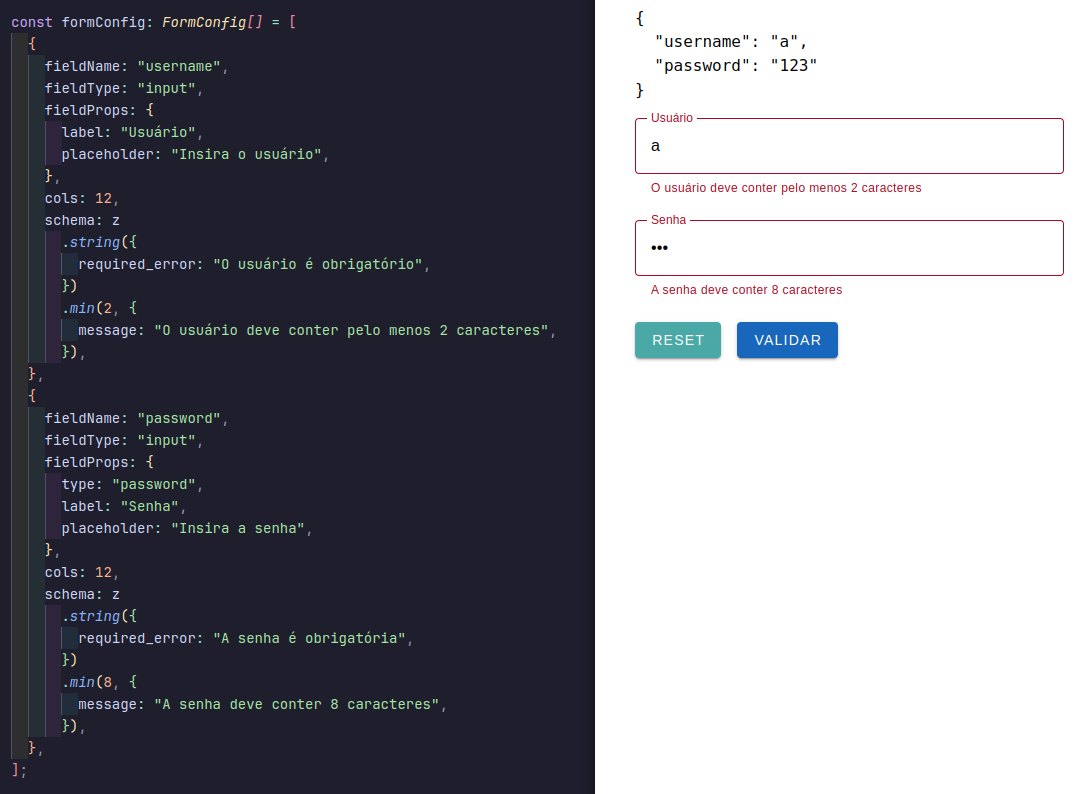
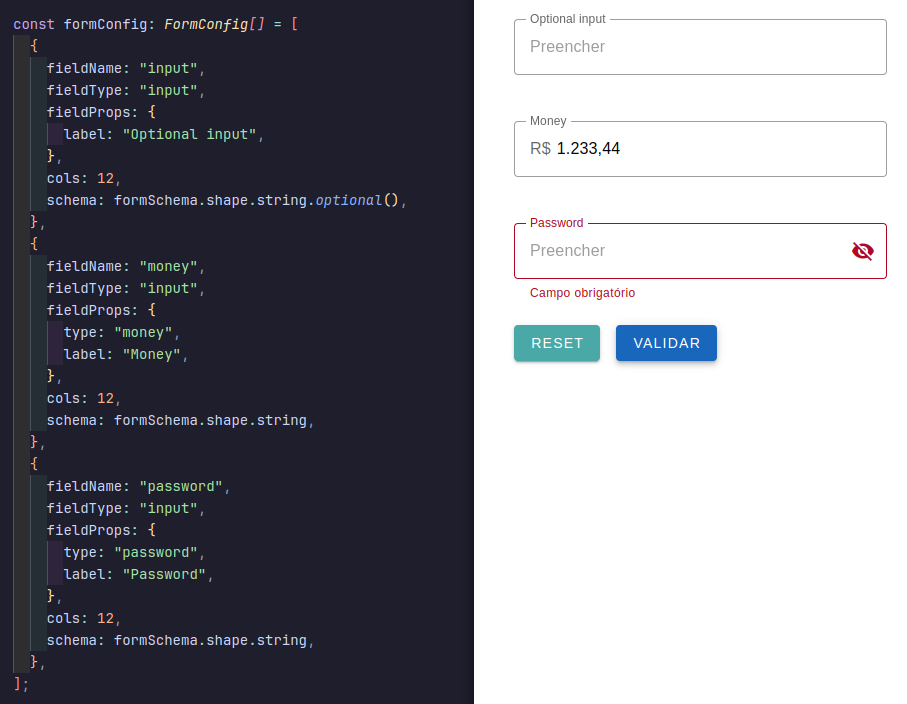
refactor: criando arquivo de schema com defaults para as validações

Changed region(s): [[0.0, 0.0, 0.8644, 1.0], [0.9261, 0.3438, 0.9879, 0.375], [0.71, 0.0312, 0.7409, 0.0938]]

diff --git a/src/app.vue b/src/app.vue
@@ -1,29 +1,146 @@
 <template>
-  <div>
-    <pre class="mb-4">{{ formValue }}</pre>
-
-    <auto-form
-      v-bind="{ formConfig, formValue }"
-      @update:form-value="updateFormValue"
-    />
-  </div>
+  <auto-form
+    v-bind="{ formConfig, formValue }"
+    @update:form-value="updateFormValue"
+  />
 </template>
 
 <script setup lang="ts">
 import { ref } from "vue";
-import { z } from "zod";
 import AutoForm from "./components/auto-form.vue";
 import { FormConfig, FormValue } from "./components/types";
+import { formSchema } from "./components/schema";
 
 const formConfig: FormConfig[] = [
+  {
+    fieldName: "input",
+    fieldType: "input",
+    fieldProps: {
+      label: "Optional input",
+    },
+    cols: 4,
+    schema: formSchema.shape.string.optional(),
+  },
+  {
+    fieldName: "money",
+    fieldType: "input",
+    fieldProps: {
+      type: "money",
+      label: "Money",
+    },
+    cols: 4,
+    schema: formSchema.shape.string,
+  },
   {
     fieldName: "password",
     fieldType: "input",
     fieldProps: {
       type: "password",
-      label: "Senha",
+      label: "Password",
     },
-    schema: z.string(),
+    cols: 4,
+    schema: formSchema.shape.string,
+  },
+  {
+    fieldName: "date",
+    fieldType: "datePicker",
+    fieldProps: {
+      label: "Date Picker",
+    },
+    cols: 4,
+    schema: formSchema.shape.date,
+  },
+  {
+    fieldName: "selectSingle",
+    fieldType: "select",
+    fieldProps: {
+      label: "Select single",
+      returnObject: true,
+      items: [
+        {
+          id: 1,
+          title: "Item 1",
+          value: 1,
+        },
+        {
+          id: 2,
+          title: "Item 2",
+          value: 2,
+        },
+      ],
+    },
+    cols: 4,
+    schema: formSchema.shape.object,
+  },
+  {
+    fieldName: "selectMultiple",
+    fieldType: "select",
+    fieldProps: {
+      label: "Select multiple",
+      returnObject: true,
+      multiple: true,
+      items: [
+        {
+          id: 1,
+          title: "Item 1",
+          value: 1,
+        },
+        {
+          id: 2,
+          title: "Item 2",
+          value: 2,
+        },
+      ],
+    },
+    cols: 4,
+    schema: formSchema.shape.array,
+  },
+  {
+    fieldName: "textarea",
+    fieldType: "textarea",
+    fieldProps: {
+      label: "Textarea",
+      rows: 3,
+    },
+    schema: formSchema.shape.string,
+  },
+  {
+    fieldName: "radio",
+    fieldType: "radio",
+    fieldProps: {
+      label: "Radio",
+      items: [
+        {
+          label: "Item 1",
+          value: 1,
+        },
+        {
+          label: "Item 2",
+          value: 2,
+        },
+      ],
+    },
+    cols: 6,
+    schema: formSchema.shape.number,
+  },
+  {
+    fieldName: "checkbox",
+    fieldType: "checkbox",
+    fieldProps: {
+      label: "Checkbox",
+      items: [
+        {
+          label: "Item 1",
+          value: 1,
+        },
+        {
+          label: "Item 2",
+          value: 2,
+        },
+      ],
+    },
+    cols: 6,
+    schema: formSchema.shape.array,
   },
 ];
 

diff --git a/src/components/schema.ts b/src/components/schema.ts
@@ -1,0 +1,46 @@
+import { z } from "zod";
+
+const DEFAULT_REQUIRED_MESSAGE = "Campo obrigatório";
+
+const stringOrNumber = z.union([
+  z.string({
+    required_error: DEFAULT_REQUIRED_MESSAGE,
+  }),
+  z.number({
+    required_error: DEFAULT_REQUIRED_MESSAGE,
+  }),
+]);
+
+export const formSchema = z.object({
+  string: z.string({
+    required_error: DEFAULT_REQUIRED_MESSAGE,
+  }),
+
+  number: z.number({
+    required_error: DEFAULT_REQUIRED_MESSAGE,
+  }),
+
+  stringOrNumber,
+
+  array: z
+    .array(z.any(), { required_error: DEFAULT_REQUIRED_MESSAGE })
+    .min(1, DEFAULT_REQUIRED_MESSAGE),
+
+  object: z
+    .object({}, { required_error: DEFAULT_REQUIRED_MESSAGE })
+    .passthrough()
+    .refine((obj) => Object.keys(obj).length > 0),
+
+  date: z.date({
+    required_error: DEFAULT_REQUIRED_MESSAGE,
+    invalid_type_error: "Data inválida",
+  }),
+
+  email: z
+    .string({
+      required_error: DEFAULT_REQUIRED_MESSAGE,
+    })
+    .email({
+      message: "E-mail inválido",
+    }),
+});

diff --git a/src/components/fields/date-picker.vue b/src/components/fields/date-picker.vue
@@ -1,6 +1,6 @@
 <template>
   <div>
-    <v-menu :close-on-content-click="false">
+    <v-menu v-model="show" :close-on-content-click="false">
       <template v-slot:activator="{ props: activator }">
         <v-text-field
           v-bind="activator"
@@ -41,6 +41,7 @@ interface Props {
 const props = defineProps<Props>();
 const emit = defineEmits(["update:model-value"]);
 
+const show = ref<boolean>(false);
 const inputDate = ref<string>("");
 const pickerDate = ref<Date>();
 
@@ -64,6 +65,7 @@ watch(
 );
 
 const onUpdateInput = (date: string) => {
+  show.value = false;
   inputDate.value = date;
 
   if (!date.length) {
@@ -81,6 +83,7 @@ const onUpdateInput = (date: string) => {
 };
 
 const onUpdateDatePicker = (date: Date) => {
+  show.value = false;
   pickerDate.value = date;
   inputDate.value = date.toLocaleDateString("pt-br");
 

diff --git a/src/components/fields/checkbox.vue b/src/components/fields/checkbox.vue
@@ -1,7 +1,7 @@
 <template>
   <v-input :error-messages="errorMessages">
     <div class="d-flex flex-column">
-      <v-label class="ml-1"> {{ props.label }} </v-label>
+      <v-label class="ml-1 mb-2"> {{ props.label }} </v-label>
 
       <v-checkbox
         v-for="item in props.items"

diff --git a/README.md b/README.md
@@ -51,9 +51,9 @@ Os tipos disponíveis estão configurados no objeto `FORM_COMPONENTS` dentro de 
 
 <script setup lang="ts">
 import { ref } from "vue";
-import { z } from "zod";
 import AutoForm from "./components/auto-form.vue";
 import { FormConfig, FormValue } from "./components/types";
+import { formSchema } from "./components/schema";
 
 // Objeto de configuração para geração do formulário
 const formConfig: FormConfig[] = [
@@ -65,13 +65,7 @@ const formConfig: FormConfig[] = [
       placeholder: "Insira o usuário",
     },
     cols: 6,
-    schema: z
-      .string({
-        required_error: "O usuário é obrigatório",
-      })
-      .min(3, {
-        message: "O usuário deve conter pelo menos 3 caracteres",
-      }),
+    schema: formSchema.shape.string.min(3, { message: "Mínimo 3 caracteres" }),
   },
   {
     fieldName: "email",
@@ -82,13 +76,7 @@ const formConfig: FormConfig[] = [
       placeholder: "Informe o e-mail",
     },
     cols: 6,
-    schema: z
-      .string({
-        required_error: "O e-mail é obrigatório",
-      })
-      .email({
-        message: "E-mail inválido",
-      }),
+    schema: formSchema.shape.email,
   },
 ];
 
@@ -126,7 +114,7 @@ Podemos utilizar máscaras pré-definidas para campos do tipo **money, telefone 
     type: "money", // Saída: #.###,##
     label: "Valor monetário",
   },
-  schema: z.string()
+  schema: formSchema.shape.string
 },
 {
   fieldName: "phone",
@@ -135,7 +123,7 @@ Podemos utilizar máscaras pré-definidas para campos do tipo **money, telefone 
     type: "phone", // Saída: (##) #####-####
     label: "Telefone",
   },
-  schema: z.string()
+  schema: formSchema.shape.string
 },
 {
   fieldName: "cep",
@@ -144,7 +132,7 @@ Podemos utilizar máscaras pré-definidas para campos do tipo **money, telefone 
     type: "cep", // Saída: #####-###
     label: "CEP",
   },
-  schema: z.string()
+  schema: formSchema.shape.string
 }
 ```
 
@@ -160,6 +148,6 @@ Também é possível adicionar a máscara manualmente utilizando a prop `mask` d
     label: "Input data com máscara",
     mask: "##/##/####"
   },
-  schema: z.string()
+  schema: formSchema.shape.string
 }
 ```
